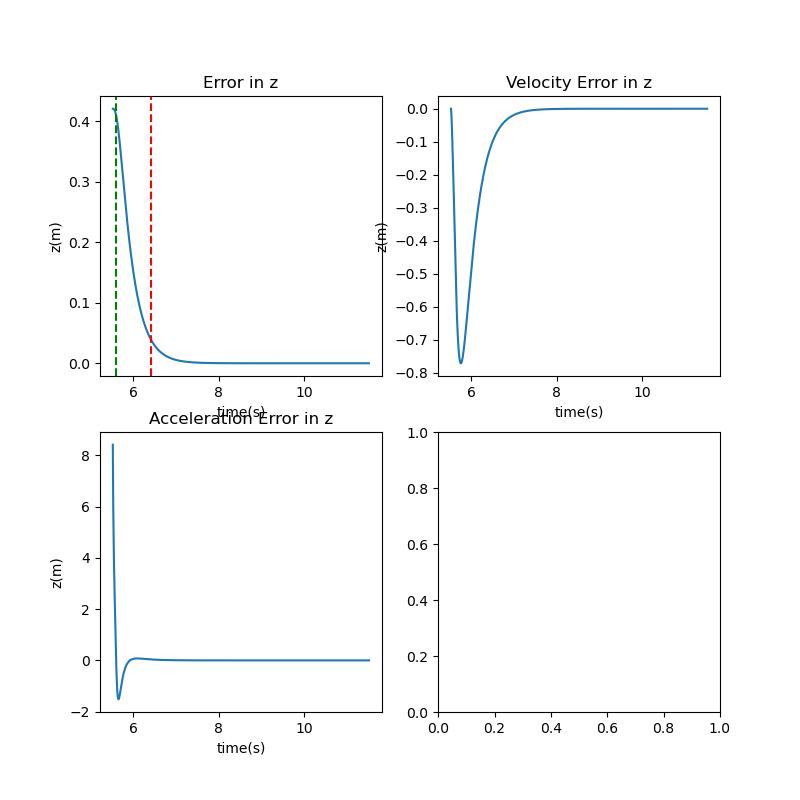
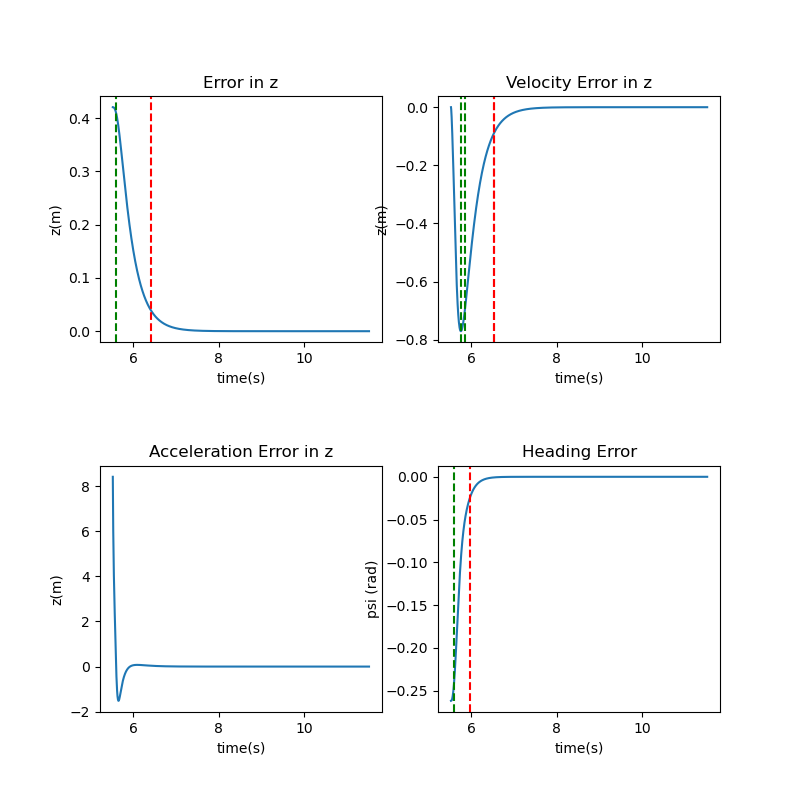
q5

diff --git a/plot.py b/plot.py
@@ -200,8 +200,8 @@ def plotq5(plotDic, params):
 
 	fig1 = plt.figure(figsize = (8, 8))
 
-	axs = fig1.subplots(2,2)
-	meantime = np.mean(time)
+	axs = fig1.subplots(2,2, )
+	fig1.subplots_adjust(hspace=.5)
 
 
 	settlingtimestamp = (errors[:, 2]) < 0.04 # 10% of the change in input.
@@ -210,8 +210,10 @@ def plotq5(plotDic, params):
 	settlingtime = settlingtimestamp - time[0]
 	risetime =  settlingtimestamp - risetimestamp
 
-	print('Settling time = ', settlingtime)
-	print('Rise time = ', risetime)
+	print("-------System Statistics--------")
+	print('[Z] Settling time = ', settlingtime)
+	print('[Z] Rise time = ', risetime)
+	print("[Z] Steady State values = ", states[-1, 2])
 
 
 	axs[0,0].plot(time, errors[:,2])
@@ -220,14 +222,53 @@ def plotq5(plotDic, params):
 	axs[0,0].axvline(x=settlingtimestamp, color='r', linestyle = '--')
 	axs[0,0].axvline(x=risetimestamp, color='g', linestyle = '--')
 
+	
+
 
 	axs[0,1].plot(time, errors[:,5])
 	axs[0,1].set_title("Velocity Error in z")
 	axs[0,1].set(xlabel = 'time(s)', ylabel = 'z(m)')
 
+	settlingtimestampstart = time[np.argmax(abs(errors[:, 5]))]
+	newtime = time[time > settlingtimestampstart]
+	newerrors = abs(errors[:, 5][time > settlingtimestampstart])
+	
+	risetimestart = newtime[newerrors - 0.9 * max(newerrors) < 0.01][0]
+
+	settlingtimestampend = newtime[newerrors - 0.1 * max(newerrors) < 0.01][0]
+	settlingtime = settlingtimestampend - settlingtimestampstart
+	risetime =  settlingtimestampend - risetimestart
+
+	print('[Vz] Settling time = ', settlingtime)
+	print('[Vz] Rise time = ', risetime)
+	print("[Vz] Steady State values = ", states[-1, 2])
+
+	axs[0,1].axvline(x=settlingtimestampend, color='r', linestyle = '--')
+	axs[0,1].axvline(x=settlingtimestampstart, color='g', linestyle = '--')
+	axs[0,1].axvline(x=settlingtimestampend, color='r', linestyle = '--')
+	axs[0,1].axvline(x=risetimestart, color='g', linestyle = '--')
+
 	axs[1,0].plot(time, errors[:,14])
 	axs[1,0].set_title("Acceleration Error in z")
 	axs[1,0].set(xlabel = 'time(s)', ylabel = 'z(m)')
+
+
+	axs[1,1].plot(time, errors[:,8])
+	axs[1,1].set_title("Heading Error")
+	axs[1,1].set(xlabel = 'time(s)', ylabel = 'psi (rad)')
+
+	settlingtimestamp = time[abs(errors[:, 8]) < 0.1 * (15 * np.pi/180)][0] # 10% of the change in input.
+	risetimestamp = time[abs(errors[:, 8]) < 0.9 * (15 * np.pi/180)][0]
+	settlingtime = settlingtimestamp - time[0]
+	risetime =  settlingtimestamp - risetimestamp
+
+	axs[1, 1].axvline(x=settlingtimestamp, color='r', linestyle = '--')
+	axs[1, 1].axvline(x=risetimestamp, color='g', linestyle = '--')
+
+
+	print('[psi] Settling time = ', settlingtime)
+	print('[psi] Rise time = ', risetime)
+	print("[psi] Steady State values = ", states[-1, 8] * 180/np.pi)
 	
 	plotprefix = f'outputs/{params["question"]}/' + params['plotprefix']
 
